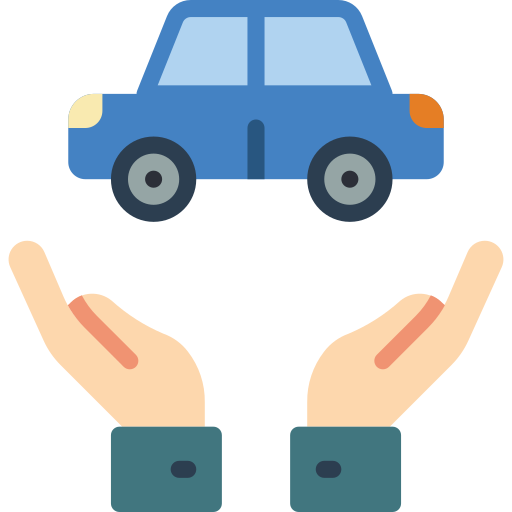
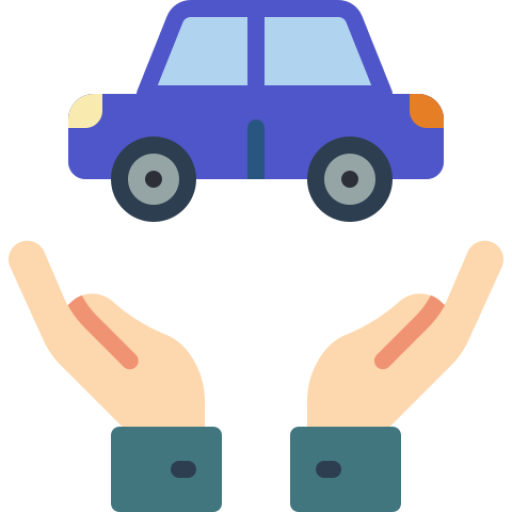
Troca cor

Changed region(s): [[0.125, 0.0, 0.875, 0.375]]

diff --git a/ngPatio/src/app/pages/header/header.component.css b/ngPatio/src/app/pages/header/header.component.css
@@ -1,7 +1,8 @@
 .container {
     width: 100%;
     height: 60px;
-    background-color: #3F51B5;
+    background-color: rgb(103, 57, 182);
+    /* background-color: #3F51B5; */
     box-shadow: 0px 2px 10px rgb(0, 0, 0);
     position: fixed;
     top: 0;
@@ -41,7 +42,7 @@
 .divisor {
     margin-right: 20px;
     float: right;
-    background-color: rgb(54, 68, 146);
+    background-color: rgb(82, 46, 145);
     width: 1px;
     height: 40px;
 }

diff --git a/ngPatio/src/app/pages/autos/autos.component.css b/ngPatio/src/app/pages/autos/autos.component.css
@@ -11,7 +11,7 @@
     margin: auto;
     width: 80%;
     height: 100%;
-    margin-top: 60px;
+    margin-top: 20px;
 }
 
 .carrossel-container {
@@ -22,9 +22,9 @@
     margin: auto;
 }
 
-.mat-spinner::ng-deep circle {
+/* .mat-spinner::ng-deep circle {
     stroke: #3F51B5;
-}
+} */
 
 /***************************
 ********** FILTRO **********
